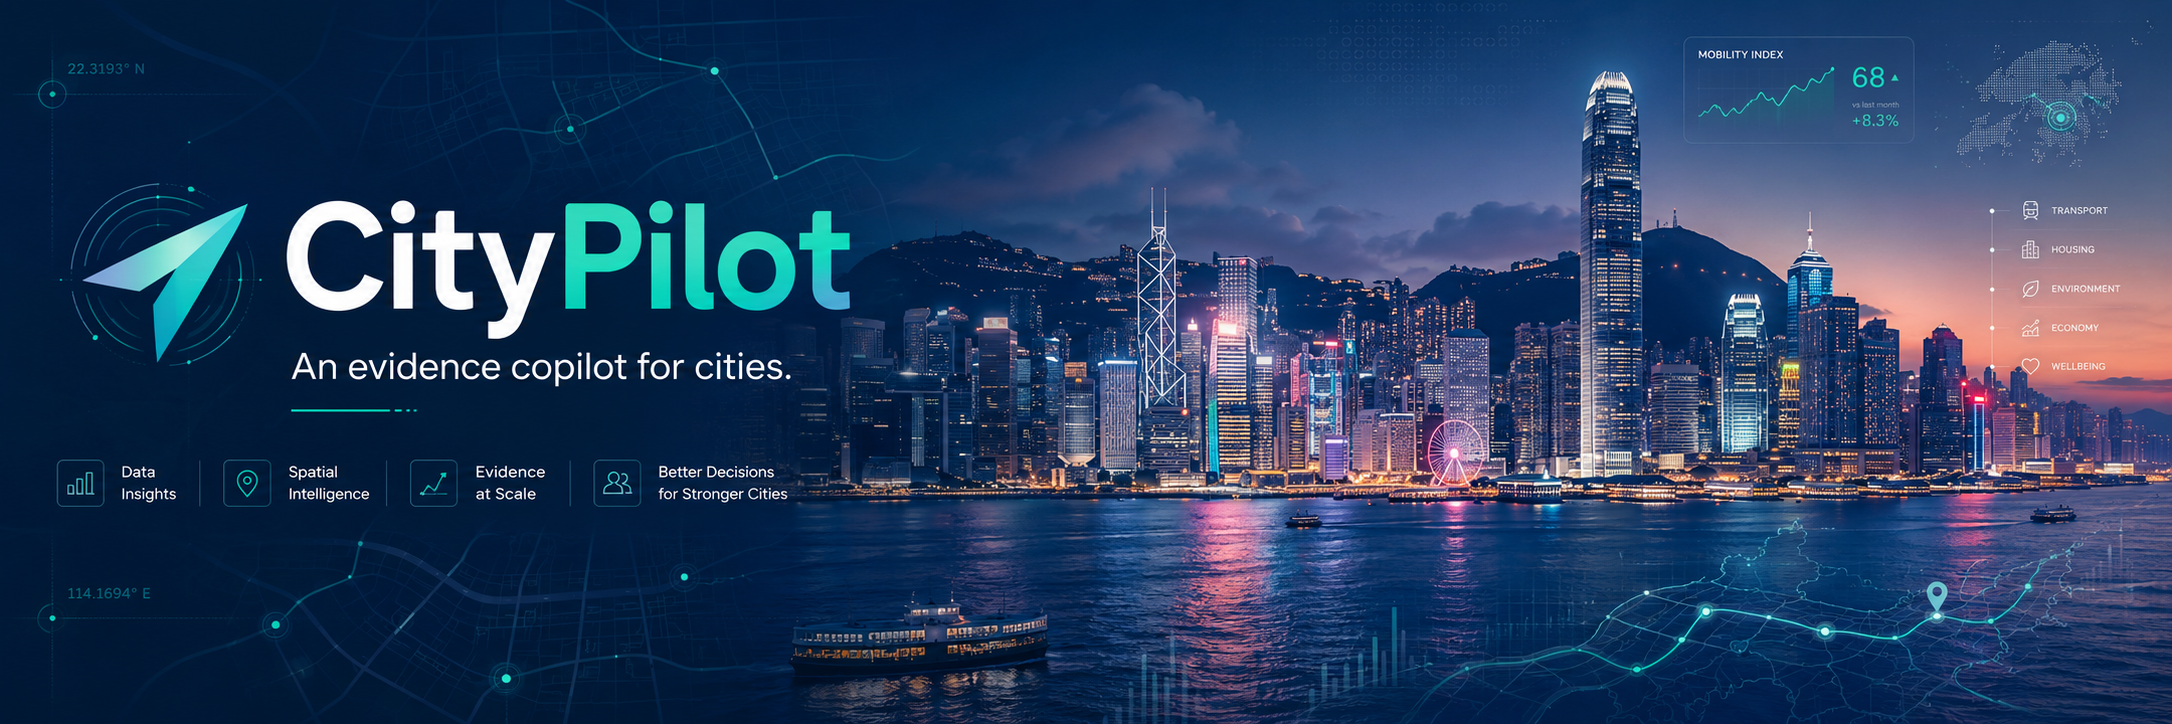
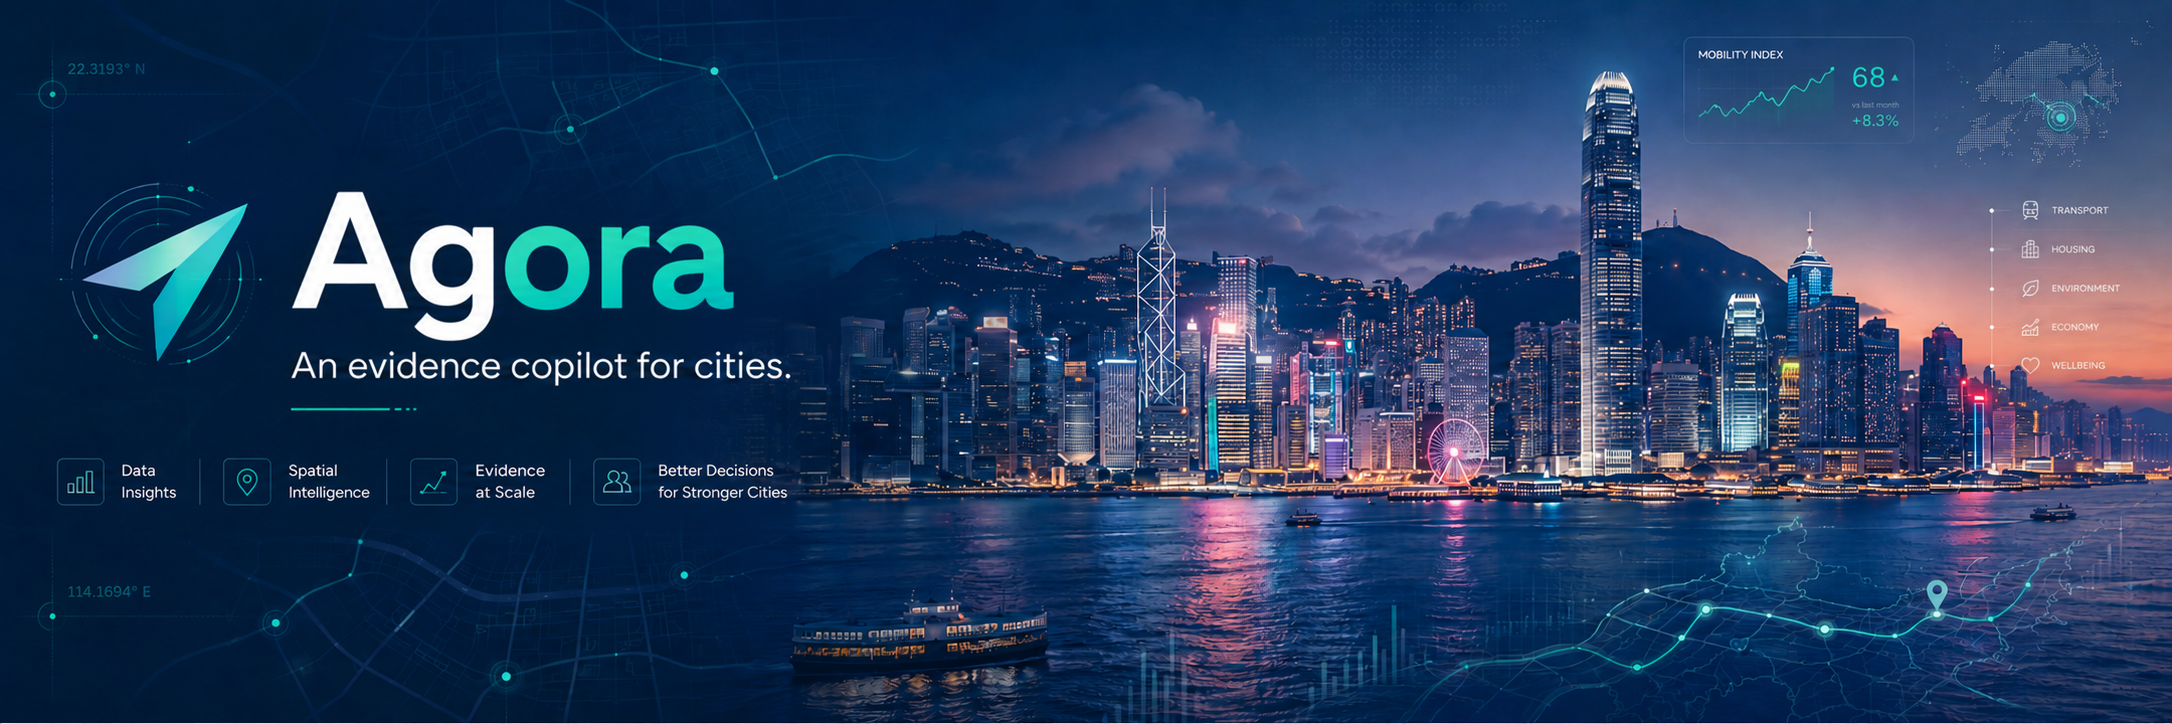
rebrand

diff --git a/apps/webapp/src/env.ts b/apps/webapp/src/env.ts
@@ -16,6 +16,6 @@ const rawApiBase = import.meta.env.VITE_API_BASE_URL ?? import.meta.env.VITE_BAC
 
 export const env = {
   apiBase: normalizeApiBase(rawApiBase),
-  appTitle: import.meta.env.VITE_APP_TITLE ?? "CityPilot",
+  appTitle: import.meta.env.VITE_APP_TITLE ?? "Agora",
   appSubtitle: import.meta.env.VITE_APP_SUBTITLE ?? "HK City Intelligence",
 };

diff --git a/apps/worker/tools/datasets.py b/apps/worker/tools/datasets.py
@@ -31,7 +31,7 @@ _HK_CKAN_BASE = "https://data.gov.hk/en-data/api/3/action"
 _HK_GET_FILE = "https://app.data.gov.hk/v1/historical-archive/get-file"
 _HK_LIST_VER = "https://api.data.gov.hk/v1/historical-archive/list-file-versions"
 _CKAN_TIMEOUT = 15
-_HEADERS = {"User-Agent": "citypilot/1.0 (data.gov.hk research agent)"}
+_HEADERS = {"User-Agent": "agora/1.0 (data.gov.hk research agent)"}
 
 
 # ── lazy singletons ────────────────────────────────────────────────────────

diff --git a/apps/worker/refresh.py b/apps/worker/refresh.py
@@ -112,7 +112,7 @@ def _upsert_batch(collection: str, items: list[dict]) -> None:
 # ── news refresh ───────────────────────────────────────────────────────────
 
 _HKFP_ARCHIVE = "https://hongkongfp.com/archive/"
-_UA = "Mozilla/5.0 (compatible; CityPilot-refresh/1.0)"
+_UA = "Mozilla/5.0 (compatible; Agora-refresh/1.0)"
 _DATE_RE = re.compile(r"/(\d{4})/(\d{2})/(\d{2})/")
 _NEWS_COLLECTION = "hk_news_articles"
 _NEWS_SOURCE = "hkfp_news"

diff --git a/apps/backend/services/chat.py b/apps/backend/services/chat.py
@@ -20,7 +20,7 @@ from services.session import SessionContext
 CHAT_MODEL = os.environ.get("CHAT_MODEL", "gpt-5")
 log = logging.getLogger("services.chat")
 
-SYSTEM_PROMPT = """You are CityPilot, an orchestrator chat assistant for a smart-city data intelligence platform.
+SYSTEM_PROMPT = """You are Agora, an orchestrator chat assistant for a smart-city data intelligence platform.
 
 You help planners, analysts, district officers, budget teams, and other city stakeholders understand city data and make evidence-based decisions.
 

diff --git a/README.md b/README.md
@@ -15,7 +15,7 @@
 ![Docker](https://img.shields.io/badge/Docker-2496ED?style=flat-square&logo=docker&logoColor=white)
 ![Python](https://img.shields.io/badge/Python-3776AB?style=flat-square&logo=python&logoColor=white)
 
-CityPilot is a conversational agent for anyone who works with urban data but does not want to live inside terminals, dashboards, or log systems. It turns city data into answers, briefings, maps, comparisons, and decisions — in plain language.
+Agora is a conversational agent for anyone who works with urban data but does not want to live inside terminals, dashboards, or log systems. It turns city data into answers, briefings, maps, comparisons, and decisions — in plain language.
 
 ## Who it is for
 
@@ -31,13 +31,13 @@ CityPilot is a conversational agent for anyone who works with urban data but doe
 
 **Citizens** who want to understand what their city is doing and why.
 
-The common thread: they all have questions about the city. CityPilot answers them.
+The common thread: they all have questions about the city. Agora answers them.
 
 ## The problem it solves
 
 Working with city data today is slow, manual, and fragmented — spreadsheets, GIS platforms, departmental reports, consultation documents, and budget tables that do not talk to each other. Getting a single coherent answer often takes days of coordination across teams.
 
-CityPilot collapses that into a single interface.
+Agora collapses that into a single interface.
 
 ## What policymakers can do with it
 
@@ -55,11 +55,11 @@ Ask:
 
 > "Which districts combine high elderly population, poor clinic access, high heat exposure, and low public transport coverage?"
 
-CityPilot joins geospatial, demographic, health, transport, and climate layers to produce a ranked, mappable answer — without requiring the policymaker to touch a GIS tool.
+Agora joins geospatial, demographic, health, transport, and climate layers to produce a ranked, mappable answer — without requiring the policymaker to touch a GIS tool.
 
 ### Public consultation summarizer
 
-Given a set of consultation submissions, CityPilot surfaces:
+Given a set of consultation submissions, Agora surfaces:
 
 - Main public concerns
 - Recurring objections
@@ -83,7 +83,7 @@ Ask:
 
 > "If we have a fixed budget for district-level climate resilience, where should we invest first?"
 
-CityPilot ranks candidate projects by vulnerability, exposure, cost, implementation time, equity impact, and maintenance burden.
+Agora ranks candidate projects by vulnerability, exposure, cost, implementation time, equity impact, and maintenance burden.
 
 ### Document and regulatory review
 
@@ -95,7 +95,7 @@ Ask questions across long policy documents:
 
 ## Architecture
 
-CityPilot is built on the **dstack** — a personal hackathon-grade tech stack designed for fast deployment of full-featured web applications.
+Agora is built on the **dstack** — a personal hackathon-grade tech stack designed for fast deployment of full-featured web applications.
 
 - **Backend**: FastAPI (Python)
 - **Frontend**: Vite SPA
